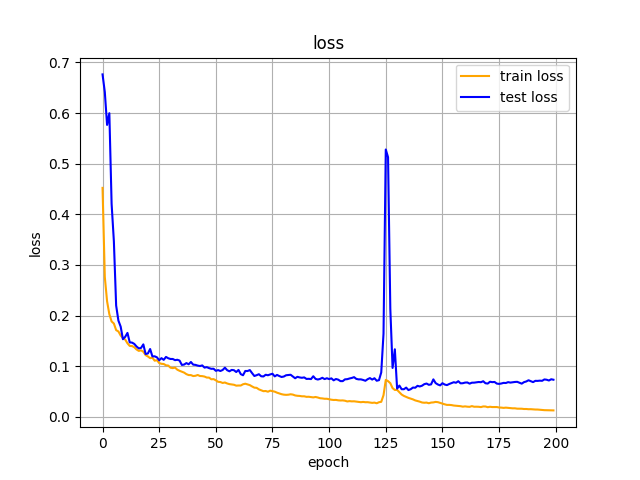
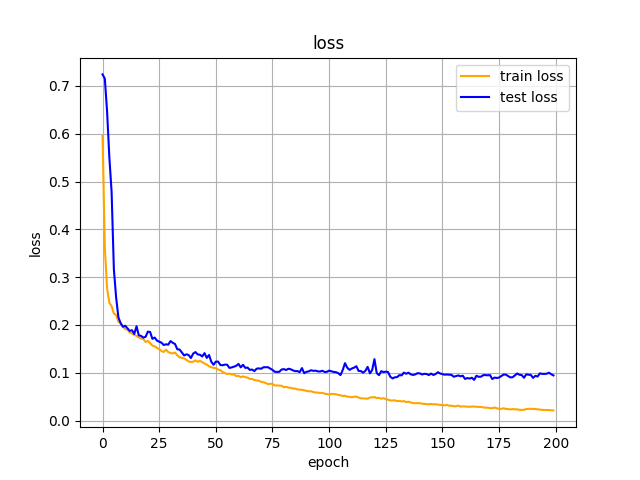
update main & add result figure

diff --git a/unet_main.py b/unet_main.py
@@ -7,6 +7,7 @@ import torch.optim as optim
 from albumentations.pytorch import ToTensorV2
 import matplotlib.pyplot as plt
 import torch.nn.functional as F
+import numpy as np
 
 class MakeDataset(Dataset):
     def __init__(self, img_dir, msk_dir, transform):
@@ -95,6 +96,7 @@ class Unet(nn.Module):
         self.CB9 = ConvBlock(128, 64)
 
         # other parts
+        self.dropout = nn.Dropout()
         self.conv = nn.Conv2d(64, out_channels, kernel_size = 1, padding = "same")
         self.pool = nn.MaxPool2d(kernel_size = 2)
 
@@ -112,6 +114,7 @@ class Unet(nn.Module):
         x5 = self.pool(x4)
 
         x5 = self.CB5(x5)
+        x5 = self.dropout(x5)
 
         z1 = self.UCB1(x5)
         z1 = torch.cat((x4, z1), dim = 1)
@@ -205,3 +208,28 @@ if __name__ == "__main__":
     plt.legend()
     plt.title('loss')
     plt.savefig(result_savedir + '/loss.png')
+
+    # Dataloaderから１バッチ取り出す
+    x_batch, y_batch = next(iter(test_loader))
+
+    # 推論
+    model.eval()
+    preds = model(x_batch.to(device))
+    preds = preds.to('cpu').detach().numpy()
+
+    img = np.ones((256, 256 * 3))
+
+    img_savedir = result_savedir + '/pred_img'
+    if os.path.exists(img_savedir):
+        pass
+    else:
+        os.mkdir(img_savedir)
+
+    for index, i in enumerate(range(BATCH_SIZE)):
+        img[:, :256] = x_batch[i, 0, :, :].numpy()
+        img[:, 256 :256 * 2] = y_batch[i, 0, :, :].numpy()
+        img[:, 256 * 2 :] = preds[i, 0, :, :]
+        plt.figure(figsize = (9, 3))
+        plt.imshow(img, cmap = 'gray')
+        plt.savefig(img_savedir + '/' + str(index) + '.png')
+        
